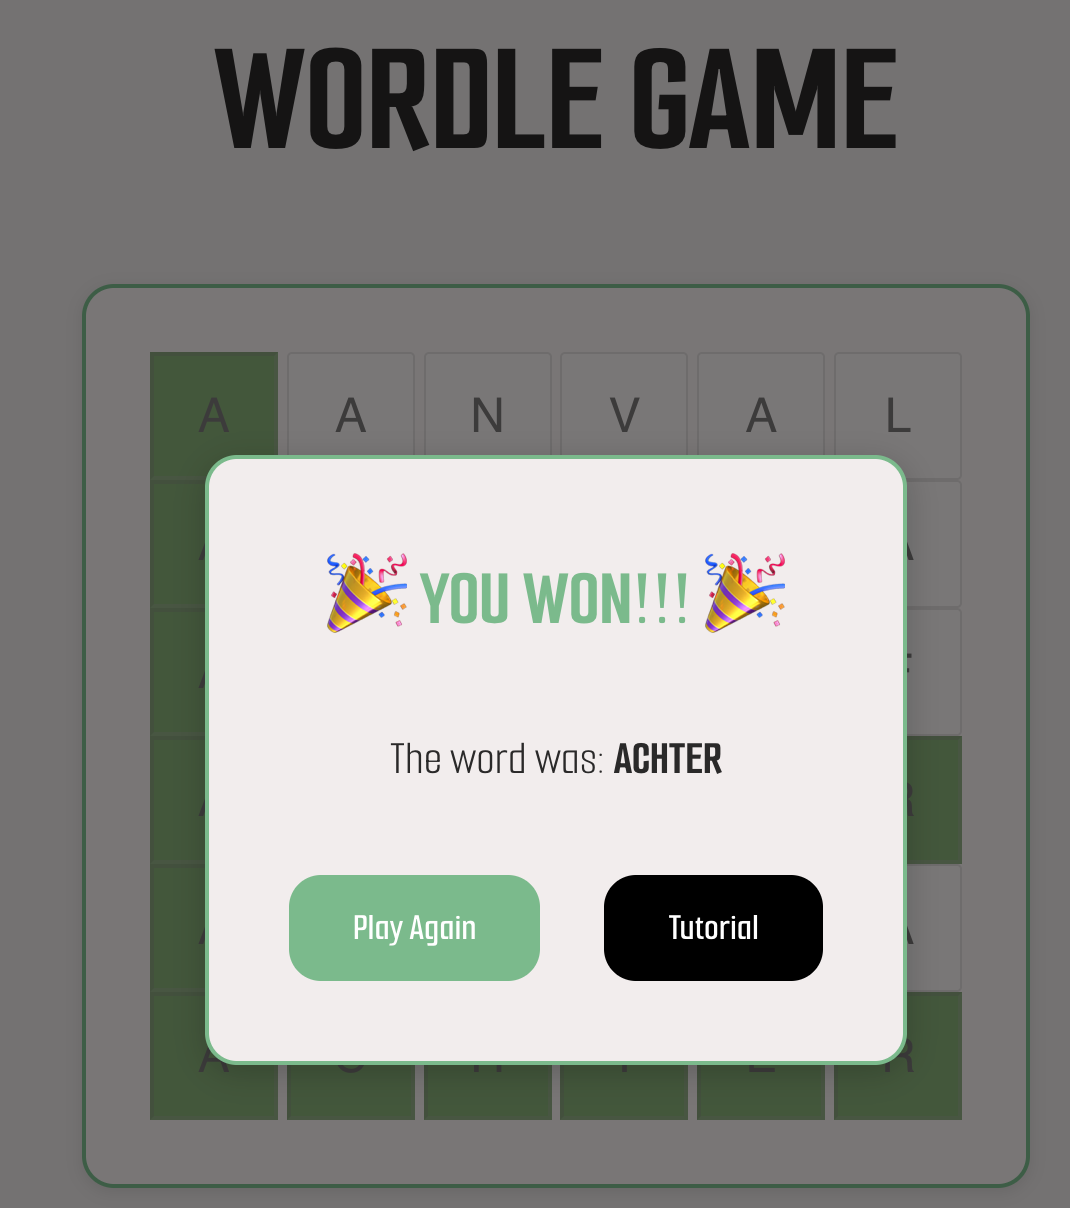
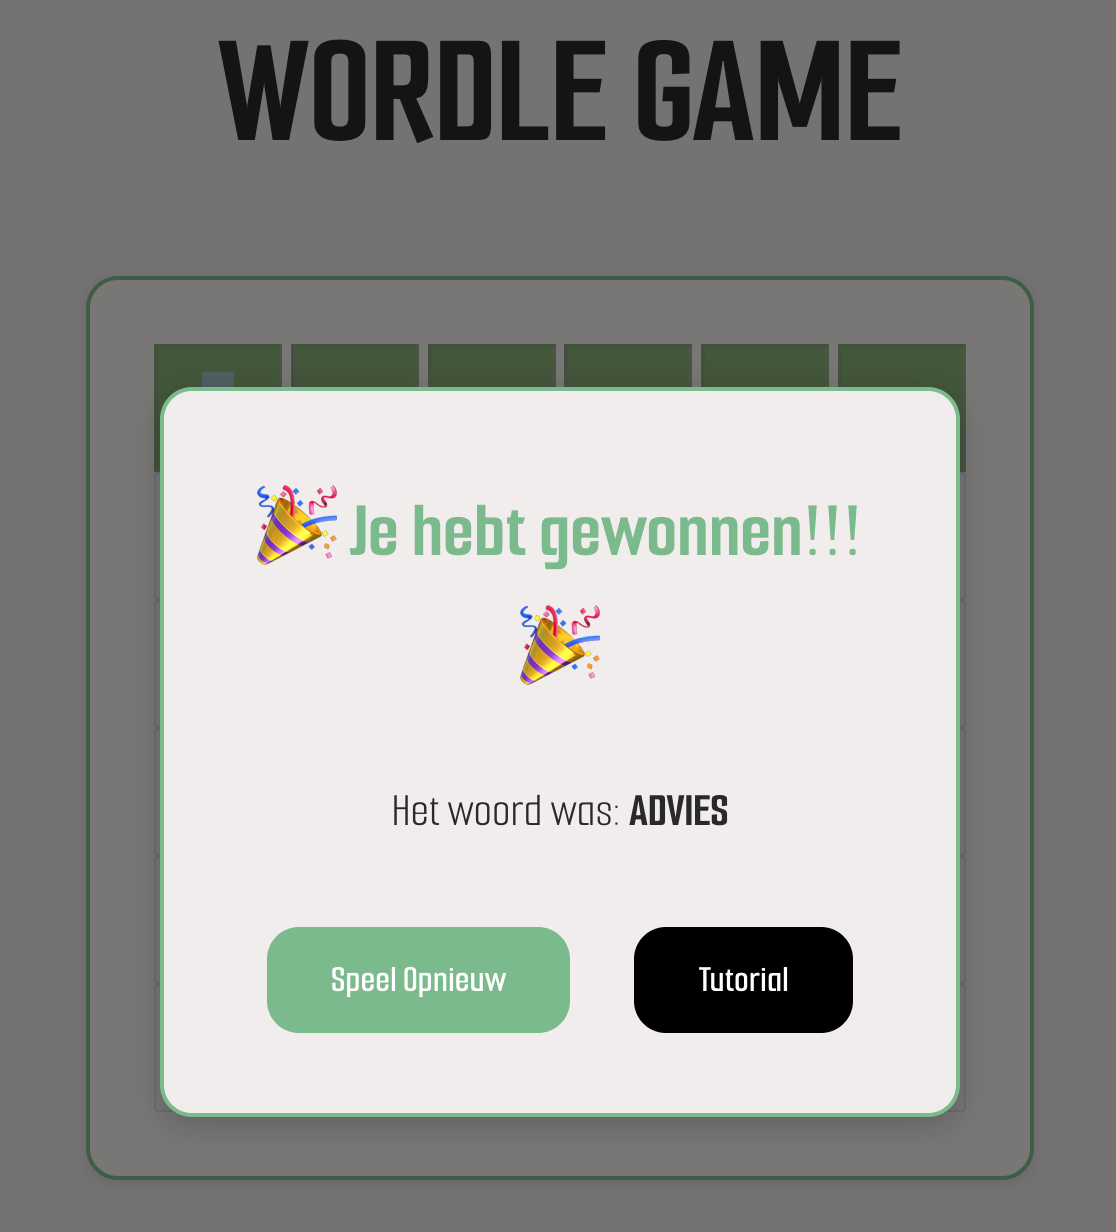
changed english html to dutch

diff --git a/js/game.js b/js/game.js
@@ -1,174 +1,176 @@
-const inputs = [...document.querySelectorAll('.woord input')];
+const inputs = [...document.querySelectorAll(".woord input")];
 const lettersPerRow = 6;
-let word = ''; // This will be replaced by a random word in a real game
-
+let word = ""; // This will be replaced by a random word in a real game
 
 // Load and get random word from words.json
 async function loadRandomWord() {
-    try {
-        const response = await fetch('./words.json');
-        const data = await response.json();
-        const wordList = data.words;
-        word = wordList[Math.floor(Math.random() * wordList.length)].toUpperCase();
-        console.log('Secret word loaded:', word);
-    } catch (error) {
-        console.error('Error loading words:', error);
-    }
-    word = 'ADVIES';
+  try {
+    const response = await fetch("./words.json");
+    const data = await response.json();
+    const wordList = data.words;
+    word = wordList[Math.floor(Math.random() * wordList.length)].toUpperCase();
+    console.log("Secret word loaded:", word);
+  } catch (error) {
+    console.error("Error loading words:", error);
+  }
+  word = "ADVIES";
 }
 
 // Load the word when page loads
 loadRandomWord();
 
 function isRowComplete(startIndex) {
-    const endIndex = startIndex + lettersPerRow;
-    const rowInputs = inputs.slice(startIndex, endIndex);
-    return rowInputs.every(input => input.value.trim() !== '');
+  const endIndex = startIndex + lettersPerRow;
+  const rowInputs = inputs.slice(startIndex, endIndex);
+  return rowInputs.every((input) => input.value.trim() !== "");
 }
 
 function checkRow(startIndex) {
-    const endIndex = startIndex + lettersPerRow;
-    const rowInputs = inputs.slice(startIndex, endIndex);
+  const endIndex = startIndex + lettersPerRow;
+  const rowInputs = inputs.slice(startIndex, endIndex);
 
-    // STEP 1: Disable and fade row
-    rowInputs.forEach(input => {
-        input.disabled = true;
-        input.style.opacity = '0.5';
-    });
-    
+  // STEP 1: Disable and fade row
+  rowInputs.forEach((input) => {
+    input.disabled = true;
+    input.style.opacity = "0.5";
+  });
 
-    // STEP 2: Mark GREEN letters (correct position)
-    const greenLetters = {};
-    rowInputs.forEach((input, index) => {
-        const letter = input.value.toUpperCase();
-        if (letter === word[index]) {
-            input.classList.add('green');
-            greenLetters[letter] = (greenLetters[letter] || 0) + 1;
-            console.log(greenLetters);
-        }
-    });
-    
-    // STEP 3: Count all letters in secret word
-    const availableLetters = {};
-    for (let i = 0; i < word.length; i++) {
-        const letter = word[i];
-        availableLetters[letter] = (availableLetters[letter] || 0) + 1;
+  // STEP 2: Mark GREEN letters (correct position)
+  const greenLetters = {};
+  rowInputs.forEach((input, index) => {
+    const letter = input.value.toUpperCase();
+    if (letter === word[index]) {
+      input.classList.add("green");
+      greenLetters[letter] = (greenLetters[letter] || 0) + 1;
+      console.log(greenLetters);
     }
-    
-    // STEP 4: Remove greens from available pool (avoid double-counting)
-    for (let letter in greenLetters) {
-        availableLetters[letter] -= greenLetters[letter];
-    }
-    
-    // STEP 5: Mark ORANGE letters (wrong position, but in word)
-    rowInputs.forEach((input, index) => {
-        const letter = input.value.toUpperCase();
-        
-        if (input.classList.contains('green')) return; // Skip greens
-        
-        // If letter still available, mark orange and use one instance
-        if (availableLetters[letter] && availableLetters[letter] > 0) {
-            input.classList.add('orange');
-            availableLetters[letter]--;
-        }
-    });
-    
+  });
 
-    //Step 6: Check for win condition
-    if (Object.keys(greenLetters).length === word.length) {
-            inputs.forEach(input => {
-            input.disabled = true;
-            input.style.opacity = '0.5';
-        });
-        showWinModal(true);
+  // STEP 3: Count all letters in secret word
+  const availableLetters = {};
+  for (let i = 0; i < word.length; i++) {
+    const letter = word[i];
+    availableLetters[letter] = (availableLetters[letter] || 0) + 1;
+  }
+
+  // STEP 4: Remove greens from available pool (avoid double-counting)
+  for (let letter in greenLetters) {
+    availableLetters[letter] -= greenLetters[letter];
+  }
+
+  // STEP 5: Mark ORANGE letters (wrong position, but in word)
+  rowInputs.forEach((input, index) => {
+    const letter = input.value.toUpperCase();
+
+    if (input.classList.contains("green")) return; // Skip greens
+
+    // If letter still available, mark orange and use one instance
+    if (availableLetters[letter] && availableLetters[letter] > 0) {
+      input.classList.add("orange");
+      availableLetters[letter]--;
     }
-    // STEP 7: Check for lose condition (all inputs filled but not all green + no more rows)
-    else if (Object.keys(greenLetters).length < word.length && endIndex === inputs.length) {
-        inputs.forEach(input => {
-            input.disabled = true;
-            input.style.opacity = '0.5';
-        });
-        showWinModal(false);
-    }
+  });
+
+  //Step 6: Check for win condition
+  if (Object.keys(greenLetters).length === word.length) {
+    inputs.forEach((input) => {
+      input.disabled = true;
+      input.style.opacity = "0.5";
+    });
+    showWinModal(true);
+  }
+  // STEP 7: Check for lose condition (all inputs filled but not all green + no more rows)
+  else if (
+    Object.keys(greenLetters).length < word.length &&
+    endIndex === inputs.length
+  ) {
+    inputs.forEach((input) => {
+      input.disabled = true;
+      input.style.opacity = "0.5";
+    });
+    showWinModal(false);
+  }
 }
 
 function showWinModal(isWin) {
-    const modal = document.getElementById('winModal');
-    const resultElement = document.getElementById('result');
-    const winWordElement = document.getElementById('winWord');
-    const closeButton = document.getElementById('closeModal');
-    const tutorialBtn = document.getElementById('tutorialBtn');
+  const modal = document.getElementById("winModal");
+  const resultElement = document.getElementById("result");
+  const winWordElement = document.getElementById("winWord");
+  const closeButton = document.getElementById("closeModal");
+  const tutorialBtn = document.getElementById("tutorialBtn");
 
-    if (isWin) {
-        resultElement.textContent = '🎉 YOU WON!!! 🎉';
-    } else {
-        resultElement.textContent = 'Helaas! Probeer opnieuw.';
-    }
+  if (isWin) {
+    resultElement.textContent = "🎉 Je hebt gewonnen!!! 🎉";
+  } else {
+    resultElement.textContent = "Helaas! Probeer opnieuw.";
+  }
 
-    winWordElement.textContent = word;
-    modal.classList.remove('hidden');
-    
-    closeButton.addEventListener('click', () => {
-        location.reload(); // Reload page to play again
-    });
-    
-    tutorialBtn.addEventListener('click', () => {
-        window.location.href = './tutorial.html'; // Go to tutorial page
-    });
+  winWordElement.textContent = word;
+  modal.classList.remove("hidden");
+
+  closeButton.addEventListener("click", () => {
+    location.reload(); // Reload page to play again
+  });
+
+  tutorialBtn.addEventListener("click", () => {
+    window.location.href = "./tutorial.html"; // Go to tutorial page
+  });
 }
 
-
-
 inputs.forEach((input, i) => {
-    input.addEventListener('keydown', e => {
-        if (input.disabled) return;
-        
-        if (e.key === 'Backspace') {
-            if (input.value) { input.value = ''; }
-            else if (i > 0) { inputs[i - 1].focus(); inputs[i - 1].value = ''; }
-            e.preventDefault();
-        }
-        if (e.key === 'ArrowLeft' && i > 0) inputs[i - 1].focus();
-        if (e.key === 'ArrowRight' && i < inputs.length - 1) inputs[i + 1].focus();
-    });
+  input.addEventListener("keydown", (e) => {
+    if (input.disabled) return;
 
-    input.addEventListener('input', e => {
-        if (input.disabled) return;
-        
-        input.value = input.value.replace(/[^a-zA-Z]/g, ''); // letters only
-        if (input.value && i < inputs.length - 1) inputs[i + 1].focus();
-        
-        // Check if current row is complete and lock it
-        const rowStartIndex = Math.floor(i / lettersPerRow) * lettersPerRow;
-        if (isRowComplete(rowStartIndex)) {
-            checkRow(rowStartIndex);
-            // Focus the first input of the next row
-            const nextRowStart = rowStartIndex + lettersPerRow;
-            if (nextRowStart < inputs.length) {
-                inputs[nextRowStart].focus();
-            }
-        }
-    });
+    if (e.key === "Backspace") {
+      if (input.value) {
+        input.value = "";
+      } else if (i > 0) {
+        inputs[i - 1].focus();
+        inputs[i - 1].value = "";
+      }
+      e.preventDefault();
+    }
+    if (e.key === "ArrowLeft" && i > 0) inputs[i - 1].focus();
+    if (e.key === "ArrowRight" && i < inputs.length - 1) inputs[i + 1].focus();
+  });
 
-    input.addEventListener('focus', () => {
-        // Check which row this input is in
-        const currentRowStart = Math.floor(i / lettersPerRow) * lettersPerRow;
-        
-        // Find the first non-disabled row
-        let firstEnabledRowStart = 0;
-        for (let row = 0; row < inputs.length; row += lettersPerRow) {
-            if (!inputs[row].disabled) {
-                firstEnabledRowStart = row;
-                break;
-            }
-        }
-        
-        // If this input is in the first enabled row, allow focus and select
-        if (currentRowStart === firstEnabledRowStart) {
-            input.select();
-        } else {
-            // Otherwise, focus the first input of the first enabled row
-            inputs[firstEnabledRowStart].focus();
-        }
-    });
+  input.addEventListener("input", (e) => {
+    if (input.disabled) return;
+
+    input.value = input.value.replace(/[^a-zA-Z]/g, ""); // letters only
+    if (input.value && i < inputs.length - 1) inputs[i + 1].focus();
+
+    // Check if current row is complete and lock it
+    const rowStartIndex = Math.floor(i / lettersPerRow) * lettersPerRow;
+    if (isRowComplete(rowStartIndex)) {
+      checkRow(rowStartIndex);
+      // Focus the first input of the next row
+      const nextRowStart = rowStartIndex + lettersPerRow;
+      if (nextRowStart < inputs.length) {
+        inputs[nextRowStart].focus();
+      }
+    }
+  });
+
+  input.addEventListener("focus", () => {
+    // Check which row this input is in
+    const currentRowStart = Math.floor(i / lettersPerRow) * lettersPerRow;
+
+    // Find the first non-disabled row
+    let firstEnabledRowStart = 0;
+    for (let row = 0; row < inputs.length; row += lettersPerRow) {
+      if (!inputs[row].disabled) {
+        firstEnabledRowStart = row;
+        break;
+      }
+    }
+
+    // If this input is in the first enabled row, allow focus and select
+    if (currentRowStart === firstEnabledRowStart) {
+      input.select();
+    } else {
+      // Otherwise, focus the first input of the first enabled row
+      inputs[firstEnabledRowStart].focus();
+    }
+  });
 });

diff --git a/tutorial.html b/tutorial.html
@@ -954,7 +954,7 @@
         const tutorialBtn = document.getElementById('tutorialBtn');
     
         if (isWin) {
-            resultElement.textContent = '🎉 YOU WON!!! 🎉';
+            resultElement.textContent = '🎉 Je hebt gewonnen!!! 🎉';
         } else {
             resultElement.textContent = 'Helaas! Probeer opnieuw.';
         }
@@ -975,7 +975,8 @@
             <p>
                 Deze functie toont een pop-up aan het einde van het spel. Het pakt eerst alle knoppen en tekstvakken
                 uit de HTML, controleert of je hebt gewonnen of verloren en toont het juiste bericht met een emoji
-                ('🎉 YOU WON!!!' als je wint, of 'Helaas! Probeer opnieuw.' als je verliest), plus het geheime woord
+                ('🎉 Je hebt gewonnen!!!' als je wint, of 'Helaas! Probeer opnieuw.' als je verliest), plus het geheime
+                woord
                 dat je moest raden. Daarna verwijdert het de hidden class zodat de pop-up zichtbaar wordt.
             </p>
             <br>

diff --git a/game.html b/game.html
@@ -77,10 +77,10 @@
     <!-- Win Modal -->
     <div id="winModal" class="modal hidden">
         <div class="modal-content">
-            <h2 id="result">🎉 You Won!</h2>
-            <p>The word was: <strong id="winWord"></strong></p>
+            <h2 id="result">🎉 Je hebt gewonnen!!! 🎉</h2>
+            <p>Het woord was: <strong id="winWord"></strong></p>
             <div class="modal-buttons">
-                <button id="closeModal" class="modal-button">Play Again</button>
+                <button id="closeModal" class="modal-button">Speel Opnieuw</button>
                 <button id="tutorialBtn" class="modal-button modal-button-secondary">Tutorial</button>
             </div>
         </div>
